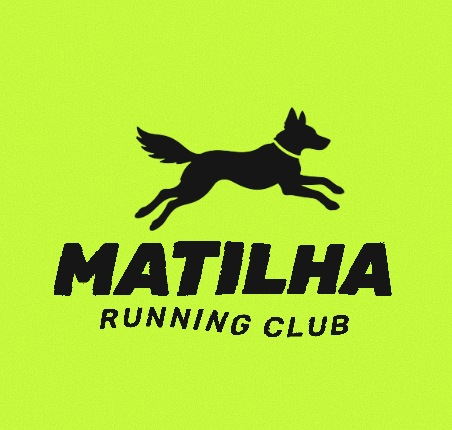
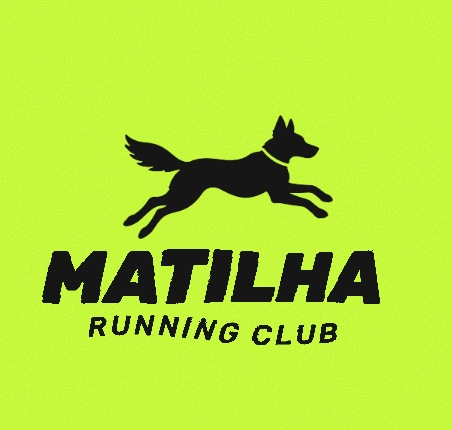
EMS: MATILHA centralizado no quadro da marca da lâmina 05
O centro da tinta foi medido na área visível do quadro (sem a sangria de
30 px em cima e à direita) e ajustado com dx/dy no logo.html. A regra foi
anotada no motor da EMS.

Claude-Session: https://claude.ai/code/session_01CmCiK9WG5RWJH1hBNUU9U9

Changed region(s): [[0.0929, 0.2419, 0.8673, 0.8163]]

diff --git a/Emi/ems-5-direcoes-pet/projeto/marcas/au/logo.html b/Emi/ems-5-direcoes-pet/projeto/marcas/au/logo.html
@@ -8,7 +8,7 @@
      A tentativa de dar pernas e tênis às letras desenhando à mão ficou feia (logo-tentativa-pernas.html): a Emi reprovou.
      A silhueta foi gerada (gpt-image no Figma) e limpa em limpa_silhueta.py.
      Uso: logo.html | ?nome=TROTE | ?fundo=#4342FF&tinta=#CCFF3E | ?bordas=0
-          quadro da lâmina: ?bordas=0&w=452&h=430&escala=.45 (img/matilha-marca.jpg) -->
+          quadro da lâmina: ?bordas=0&w=452&h=430&escala=.45&dx=-11.5&dy=8 (img/matilha-marca.jpg; centro da tinta medido na área visível, sem a sangria) -->
 <html><head><meta charset="utf-8"><style>
 @font-face { font-family: RubikI; src: url(../../fonts/Rubik-italic-var-latin.woff2); font-weight: 300 900; }
 @font-face { font-family: Rubik; src: url(../../fonts/Rubik-var-latin.woff2); font-weight: 300 900; }
@@ -53,7 +53,7 @@ s.setProperty('--fundo', q.get('fundo') || '#CCFF3E'); s.setProperty('--tinta', 
 document.querySelectorAll('.cor-tinta').forEach(e => e.setAttribute('flood-color', q.get('tinta') || '#121212'));
 if (q.get('bordas') === '0') document.querySelectorAll('.borda').forEach(e => e.remove());
 if (q.get('w')) { const pc = document.querySelector('.palco'); pc.style.width = q.get('w') + 'px'; pc.style.height = q.get('h') + 'px'; }
-if (q.get('escala')) document.querySelector('.logo').style.transform = `translate(-50%, -50%) scale(${q.get('escala')})`;
+if (q.get('escala')) document.querySelector('.logo').style.transform = `translate(calc(-50% + ${q.get('dx') || 0}px), calc(-50% + ${q.get('dy') || 0}px)) scale(${q.get('escala')})`;
 // o nome ocupa 760px de largura (cabe qualquer nome curto)
 if (q.get('nome')) { document.querySelector('.mt').textContent = q.get('nome'); document.querySelectorAll('.borda span').forEach(e => e.textContent = e.textContent.replace('matilha', q.get('nome').toLowerCase())); }
 document.fonts.ready.then(() => { const mt = document.querySelector('.mt'); mt.style.fontSize = (200 * 760 / mt.offsetWidth) + 'px'; });   // offsetWidth: largura sem a escala do transform

diff --git a/.claude/skills/artes-clientes/clientes/ems.md b/.claude/skills/artes-clientes/clientes/ems.md
@@ -137,6 +137,7 @@ Referências e o que saiu de cada uma: `Emi/ems-5-direcoes-pet/referencias/marca
       - a cartela de comprimidos, recortada com BiRefNet, volta por cima.
     - **Lição:** etiqueta pequena em vidro curvo fica com cara de colada. Caixa e faces planas aceitam a arte muito melhor. Em frasco, só com arte grande e simples. Antes de pintar, olhar onde o bicho encosta: uma máscara do gato por luminância pegava a borda escura do pote e deixava uma faixa branca.
   - **Exportar logo com letras giradas:** fotografar o palco inteiro e aparar pelo alfa (`marcas/toto/exporta-logo.mjs`). Recortar pela caixa do elemento corta o que passa dela. Para aplicar num pacote, recortar o pacote com BiRefNet (`marcas/aplica_pacote.py`); a máscara por cor falha na parte em sombra. Composição em `projeto/marcas/aplica.py`, que deforma a arte em perspectiva e herda a luz da foto; a lateral usa a luz da frente.
+- **Logo no quadro da marca: centralizar pela tinta, na área visível.** O quadro tem sangria de 30 px em cima e à direita (a imagem é 452 x 430, mas aparece só x 0-422 e y 30-430). Medir a caixa dos pixels escuros nessa área e mover até o centro dela ficar em (211, 200). Centralizar pelo elemento do logo deixa a marca torta, porque o cachorro e o nome não têm o mesmo centro (a Emi: "não tá centralizado", no TOTÓ e na MATILHA).
 - **Run club (direção 04): virou MATILHA running club.**
   - A identidade "AU" (número de peito na Graduate) foi reprovada: "feia, xoxa".
   - Pesquisa: `referencias/au-running-club/identidade`. Ela escolheu misturar 1 (RUN CLUB), 7 (TRC) e 18 (Wild Pup), lembrando que é corrida **com** cachorro.
